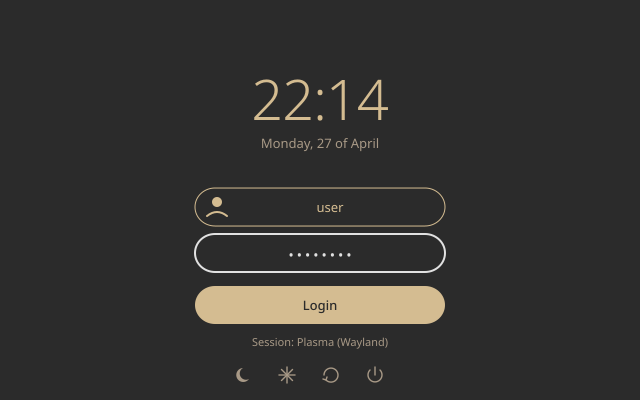
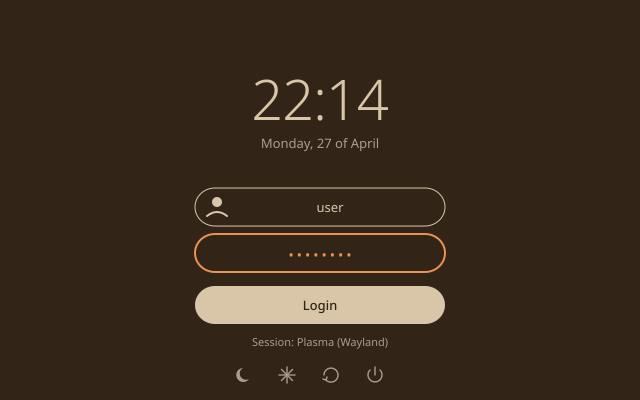
feat(previews): SDDM greeter previews and the store thumbnail render from the palette
umber-*-sddm/preview.svg was one hand-made file copied five times, in
pre-variant colors; preview.svg (store thumbnail) was hand-made too. Both
are now templates drawn from roles (greeter: BackgroundColor bg_panel,
MainColor fg, AccentColor decoration_focus). render rasterizes each SDDM
preview.svg to the preview.png the greeter picker shows (rsvg-convert;
warns and skips if missing); check verifies the SVGs and that PNGs exist.

diff --git a/scripts/render_palette.py b/scripts/render_palette.py
@@ -34,6 +34,8 @@ the filename unless --variant is given explicitly.
 
 import argparse
 import re
+import shutil
+import subprocess
 import sys
 from pathlib import Path
 
@@ -94,7 +96,7 @@ def outputs_for(variant):
     pkg_id = f"io.github.viscous-values.{slug}"
     shell_dir = f"{slug}-shell"
 
-    return {
+    outputs = {
         # Plasma colorscheme.
         "Umber.colors.tmpl":           f"{pkg_id}/contents/colors/{scheme}.colors",
         # Konsole colorscheme.
@@ -107,6 +109,7 @@ def outputs_for(variant):
         # SDDM — per-variant theme directory.
         "sddm-theme.conf.tmpl":        f"{slug}-sddm/theme.conf",
         "sddm-metadata.desktop.tmpl":  f"{slug}-sddm/metadata.desktop",
+        "sddm-preview.svg.tmpl":       f"{slug}-sddm/preview.svg",   # + preview.png, rasterized
         # Plasma Splash + lockscreen QML.
         "Splash.qml.tmpl":             f"{pkg_id}/contents/splash/Splash.qml",
         "LockScreenUi.qml.tmpl":       f"{shell_dir}/contents/lockscreen/LockScreenUi.qml",
@@ -116,6 +119,10 @@ def outputs_for(variant):
         "lookandfeel-wallpaper-metadata.json.tmpl": f"{pkg_id}/contents/wallpapers/{scheme}/metadata.json",
         "plasma-shell-metadata.json.tmpl":          f"{shell_dir}/metadata.json",
     }
+    if is_canon:
+        # Store-listing thumbnail at the repo root.
+        outputs["store-preview.svg.tmpl"] = "preview.svg"
+    return outputs
 
 
 # --------------------------------------------------------------------------- #
@@ -217,6 +224,22 @@ def icon_outputs_for(variant):
     return paths
 
 
+def rasterize(svg_path, png_path):
+    """SVG -> PNG at the SVG's own size, via librsvg's rsvg-convert."""
+    tool = shutil.which("rsvg-convert")
+    if tool is None:
+        print(f"warning: rsvg-convert not found; {png_path} not refreshed", file=sys.stderr)
+        return False
+    subprocess.run([tool, str(svg_path), "-o", str(png_path)], check=True)
+    return True
+
+
+def raster_outputs_for(variant):
+    """PNG outputs rasterized from rendered SVGs: (svg_rel, png_rel) pairs."""
+    svg = outputs_for(variant)["sddm-preview.svg.tmpl"]
+    return [(svg, svg.replace(".svg", ".png"))]
+
+
 def render_one(palette, variant):
     outputs = outputs_for(variant)
     written = []
@@ -227,6 +250,9 @@ def render_one(palette, variant):
         out.parent.mkdir(parents=True, exist_ok=True)
         out.write_text(rendered)
         written.append(out_rel)
+    for svg_rel, png_rel in raster_outputs_for(variant):
+        if rasterize(REPO / svg_rel, REPO / png_rel):
+            written.append(png_rel)
     written.extend(render_extension_icon.render_for_variant(palette, variant))
     return written
 
@@ -244,7 +270,7 @@ def check_one(palette, variant):
             drift.append(out_rel)
     # Icons are binary; we only check existence (full pixel-diff on every
     # check would be slow and would flag innocuous PIL/encoder changes).
-    for icon_rel in icon_outputs_for(variant):
+    for icon_rel in [*icon_outputs_for(variant), *(png for _, png in raster_outputs_for(variant))]:
         if not (REPO / icon_rel).exists():
             drift.append(icon_rel)
     return drift

diff --git a/tests/test_render_palette.py b/tests/test_render_palette.py
@@ -99,5 +99,31 @@ class ExtensionIconTest(unittest.TestCase):
         self.assertTrue(all(abs(a - b) <= 2 for a, b in zip(got, brand)), f"{got} != brand {brand}")
 
 
+class PreviewTemplatesTest(unittest.TestCase):
+    def test_sddm_preview_ships_with_every_variant_store_preview_only_canonical(self):
+        self.assertEqual(render_palette.outputs_for("umber")["sddm-preview.svg.tmpl"], "umber-sddm/preview.svg")
+        self.assertEqual(render_palette.outputs_for("umber")["store-preview.svg.tmpl"], "preview.svg")
+        self.assertEqual(render_palette.outputs_for("tide")["sddm-preview.svg.tmpl"], "umber-tide-sddm/preview.svg")
+        self.assertNotIn("store-preview.svg.tmpl", render_palette.outputs_for("tide"))
+
+    def test_sddm_preview_draws_the_greeter_colors(self):
+        import re
+        pal = render_palette.prepare_palette(REPO / "palettes" / "tide.toml", "tide")
+        svg = render_palette.render_template(
+            (render_palette.TEMPLATE_DIR / "sddm-preview.svg.tmpl").read_text(), pal)
+        self.assertEqual(re.search(r'<rect width="640" height="400" fill="(#[0-9A-F]{6})"', svg).group(1),
+                         pal["role"]["bg_panel"])                      # BackgroundColor
+        self.assertIn(f'stroke="{pal["role"]["decoration_focus"]}"', svg)  # focused password field = AccentColor
+
+    @unittest.skipUnless(__import__("shutil").which("rsvg-convert"), "rsvg-convert not installed")
+    def test_rasterize_writes_a_png_at_the_svg_size(self):
+        import tempfile
+        from PIL import Image
+        with tempfile.TemporaryDirectory() as d:
+            png = Path(d) / "preview.png"
+            render_palette.rasterize(REPO / "umber-sddm" / "preview.svg", png)
+            self.assertEqual(Image.open(png).size, (640, 400))
+
+
 if __name__ == "__main__":
     unittest.main()
